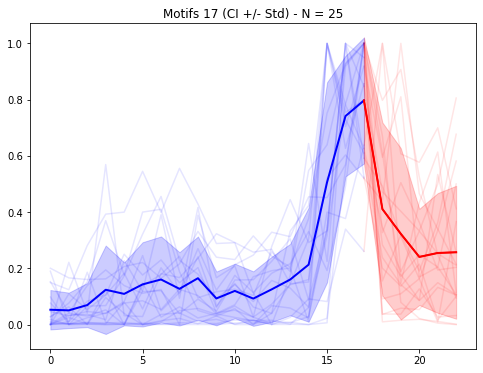
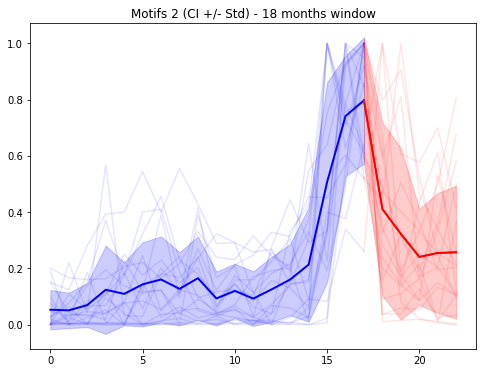
update general

Changed region(s): [[0.2484, 0.0, 0.7764, 0.059]]

diff --git a/test_3.py b/test_3.py
@@ -231,7 +231,13 @@ for row in range(len(win_sel)):
         if i[1] not in exclude:
             ind_m.append(i[1])
     pmp_m = pmp[ind_m]   
- 
+    
+    plt.figure(figsize=(20,5))
+    plt.plot(pmp)
+    plt.plot(ind_m,pmp_m,marker='*',color='r',linewidth=0,markersize=15)  
+    plt.title('Motif '+str(row+1)+' - Matrix Profile')
+    plt.show()
+    
     tab_mot = n_test[ind_m[0]:ind_m[0]+h_max+win].reshape((h_max+win,1))
     for i in ind_m[1:]:
         try:
@@ -254,7 +260,7 @@ for row in range(len(win_sel)):
     plt.fill_between([*range(win)],m_tab.iloc[0:win]-std_tab.iloc[0:win],m_tab.iloc[0:win]+std_tab.iloc[0:win],color='blue',alpha=0.2)    
     plt.plot(m_tab.iloc[win-1:h_max+win],color='red') 
     plt.fill_between([*range(win-1,h_max+win)],m_tab.iloc[win-1:h_max+win]-std_tab.iloc[win-1:h_max+win],m_tab.iloc[win-1:h_max+win]+std_tab.iloc[win-1:h_max+win],color='red',alpha=0.2) 
-    plt.title('Motifs '+str(mot+1)+' (CI +/- Std)')
+    plt.title('Motifs '+str(row+1)+' (CI +/- Std) - '+str(win)+' months window')
     #plt.savefig('Figures_motifs_mean_std/Global Motif '+str(mot+1)+'.png')
     plt.show()
     
@@ -360,4 +366,4 @@ for row in range(len(win_sel)):
         plt.boxplot(abs(k.iloc[:,0]-k.iloc[:,1])-abs(k.iloc[:,0]-k.iloc[:,2]),positions=[i], showfliers=False,showmeans=True)
     plt.xticks([*range(h_max)],[*range(1,h_max+1)])
     plt.hlines(0, -0.25, h_max-0.75, colors='red',linestyles='--')
-    plt.title('Motifs '+str(mot+1)+' with N = '+str(len(k)))
+    plt.title('Motifs '+str(row+1)+' with N = '+str(len(k)))
